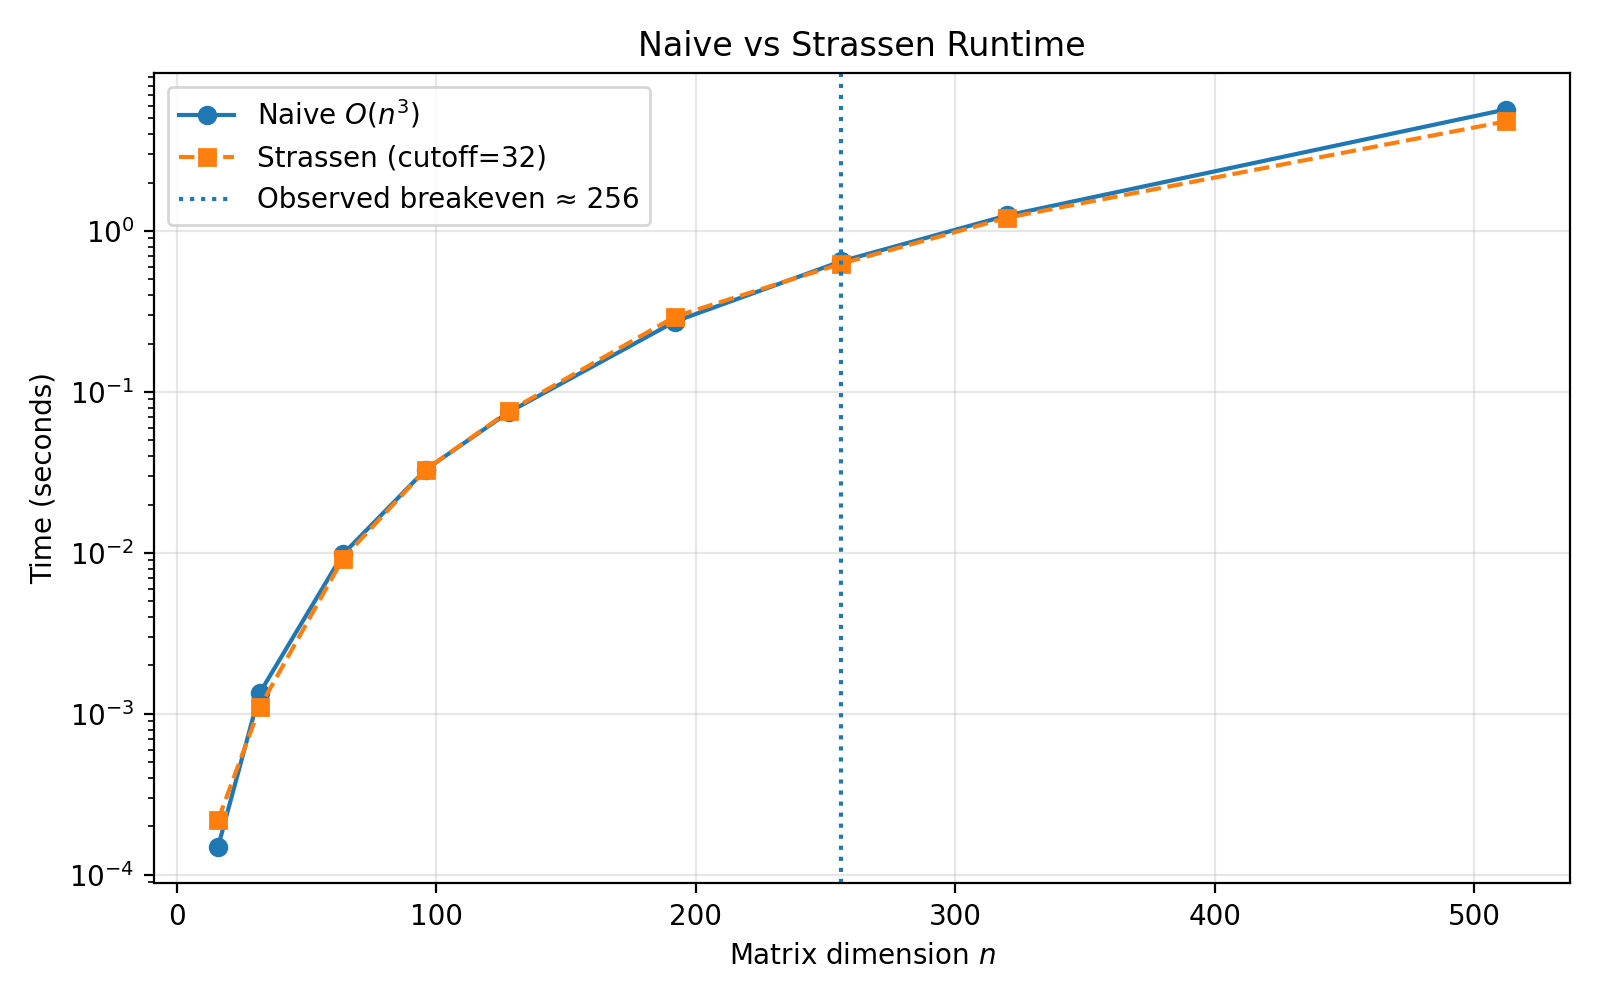
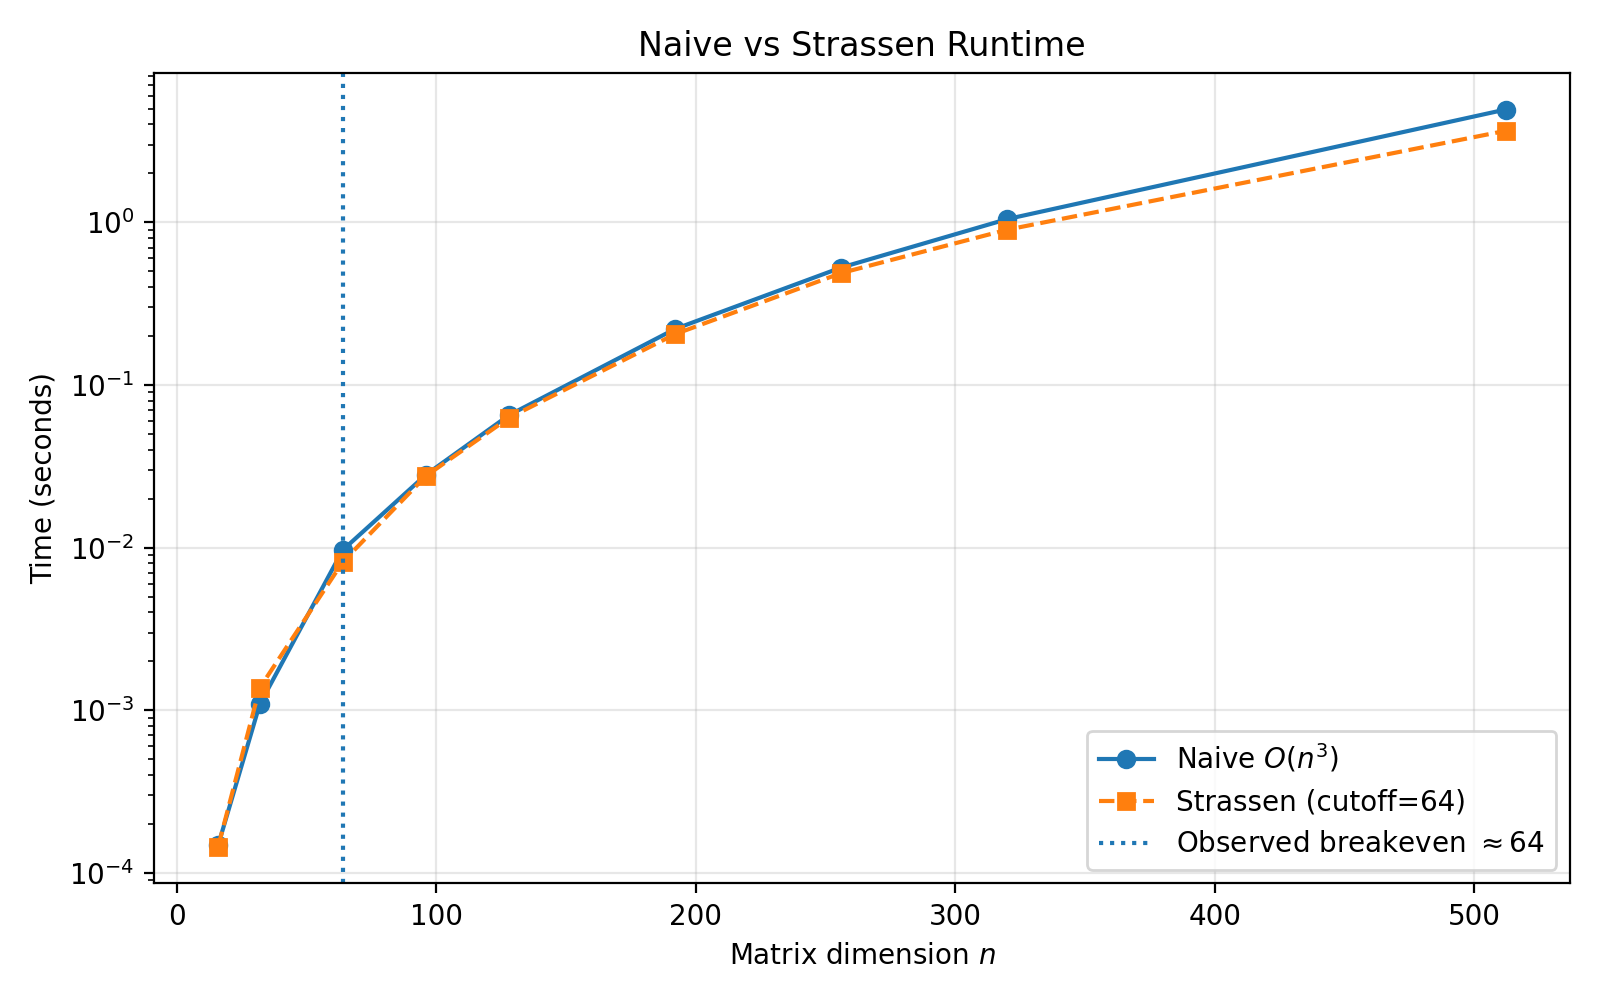
graph updates

diff --git a/make_graphs.py b/make_graphs.py
@@ -1,25 +1,18 @@
 import matplotlib.pyplot as plt
 
-# Replace these with your actual benchmark results
+# -----------------------------
+# Graph 1: Naive vs Strassen (cutoff = 64)
+# -----------------------------
 n_vals = [16, 32, 64, 96, 128, 192, 256, 320, 512]
-naive_times = [0.00015, 0.00135, 0.0098, 0.033, 0.075, 0.274, 0.648, 1.25, 5.685]
-strassen_32 = [0.00022, 0.0011, 0.0092, 0.033, 0.076, 0.294, 0.627, 1.21, 4.797]
+naive_times = [0.000148, 0.001085, 0.009664, 0.028018, 0.065166, 0.220916, 0.527254, 1.047381, 4.942209]
+strassen_64 = [0.000145, 0.001371, 0.008158, 0.027533, 0.062749, 0.205260, 0.487722, 0.901444, 3.654454]
 
-cutoffs = [8, 16, 32, 64, 128]
-times_128 = [0.125, 0.089, 0.076, 0.081, 0.078]
-times_256 = [0.938, 0.706, 0.648, 0.627, 0.660]
-
-p_vals = [0.01, 0.02, 0.03, 0.04, 0.05]
-expected = [178.4, 1427.5, 4817.7, 11419.7, 22304.1]
-observed = [185, 1414, 4844, 11568, 22808]
-
-# Graph 1: naive vs strassen
 plt.figure(figsize=(8, 5))
-plt.plot(n_vals, naive_times, marker='o', label='Naive $O(n^3)$')
-plt.plot(n_vals, strassen_32, marker='s', linestyle='--', label='Strassen (cutoff=32)')
-plt.axvline(256, linestyle=':', label='Observed breakeven ≈ 256')
+plt.plot(n_vals, naive_times, marker='o', label=r'Naive $O(n^3)$')
+plt.plot(n_vals, strassen_64, marker='s', linestyle='--', label='Strassen (cutoff=64)')
+plt.axvline(64, linestyle=':', label=r'Observed breakeven $\approx 64$')
 plt.yscale('log')
-plt.xlabel('Matrix dimension $n$')
+plt.xlabel(r'Matrix dimension $n$')
 plt.ylabel('Time (seconds)')
 plt.title('Naive vs Strassen Runtime')
 plt.legend()
@@ -28,12 +21,18 @@ plt.tight_layout()
 plt.savefig('fig_crossover.png', dpi=200)
 plt.close()
 
-# Graph 2: cutoff experiment
+# -----------------------------
+# Graph 2: Effect of cutoff
+# -----------------------------
+cutoffs = [8, 16, 32, 64, 128]
+times_128 = [0.119521, 0.078138, 0.071930, 0.068264, 0.073127]
+times_256 = [0.827423, 0.574950, 0.507688, 0.484016, 0.480850]
+
 plt.figure(figsize=(8, 5))
-plt.plot(cutoffs, times_128, marker='o', label='$n=128$')
-plt.plot(cutoffs, times_256, marker='s', linestyle='--', label='$n=256$')
-plt.axvline(32, linestyle=':', label='Best cutoff = 32')
-plt.xlabel('Cutoff $n_0$')
+plt.plot(cutoffs, times_128, marker='o', label=r'$n=128$')
+plt.plot(cutoffs, times_256, marker='s', linestyle='--', label=r'$n=256$')
+plt.axvline(64, linestyle=':', label='Chosen cutoff = 64')
+plt.xlabel(r'Cutoff $n_0$')
 plt.ylabel('Time (seconds)')
 plt.title('Effect of Cutoff on Strassen Runtime')
 plt.legend()
@@ -42,7 +41,13 @@ plt.tight_layout()
 plt.savefig('fig_cutoff.png', dpi=200)
 plt.close()
 
-# Graph 3: triangle counts
+# -----------------------------
+# Graph 3: Triangle counts
+# -----------------------------
+p_vals = [0.01, 0.02, 0.03, 0.04, 0.05]
+expected = [178.4, 1427.5, 4817.7, 11419.7, 22304.1]
+observed = [158, 1374, 4919, 11310, 22342]
+
 x = list(range(len(p_vals)))
 width = 0.35
 
@@ -53,10 +58,10 @@ plt.bar([i + width/2 for i in x], observed, width=width, label='Observed')
 for i, (e, o) in enumerate(zip(expected, observed)):
     plt.text(i, max(e, o) + 250, f'{o/e:.3f}x', ha='center')
 
-plt.xticks(x, [f'$p={p:.2f}$' for p in p_vals])
-plt.xlabel('Edge probability $p$')
+plt.xticks(x, [rf'$p={p:.2f}$' for p in p_vals])
+plt.xlabel(r'Edge probability $p$')
 plt.ylabel('Number of triangles')
-plt.title('Expected vs Observed Triangle Counts in $G(1024,p)$')
+plt.title(r'Expected vs Observed Triangle Counts in $G(1024,p)$')
 plt.legend()
 plt.grid(True, axis='y', alpha=0.3)
 plt.tight_layout()

diff --git a/benchmark.py b/benchmark.py
@@ -36,15 +36,14 @@ def benchmark_crossover():
     random.seed(124)
     sizes = [16, 32, 64, 96, 128, 192, 256, 320, 512]
 
-    print("\nNaive vs Strassen(cutoff=32)")
+    print("\nNaive vs Strassen(cutoff=64)")
     for n in sizes:
         A = random_matrix(n)
         B = random_matrix(n)
 
         t_naive = best_of_three(naive, A, B)
-        t_strassen = best_of_three(strassen, A, B, 32)
-
-        print(f"n={n}: naive={t_naive:.6f}, strassen32={t_strassen:.6f}")
+        t_strassen = best_of_three(strassen, A, B, 64)
+        print(f"n={n}: naive={t_naive:.6f}, strassen64={t_strassen:.6f}")
 
 
 if __name__ == "__main__":

diff --git a/strassen.py b/strassen.py
@@ -43,7 +43,7 @@ def naive(A, B):
     return C
 
 
-def strassen(A, B, cutoff=32):
+def strassen(A, B, cutoff=64):
     n = len(A)
 
     if n <= cutoff:
@@ -106,7 +106,7 @@ def main():
     n = int(sys.argv[2])
     inputfile = sys.argv[3]
 
-    cutoff = 32  # best experimental cutoff
+    cutoff = 64  # best experimental cutoff
 
     A, B = read_input(inputfile, n)
 
